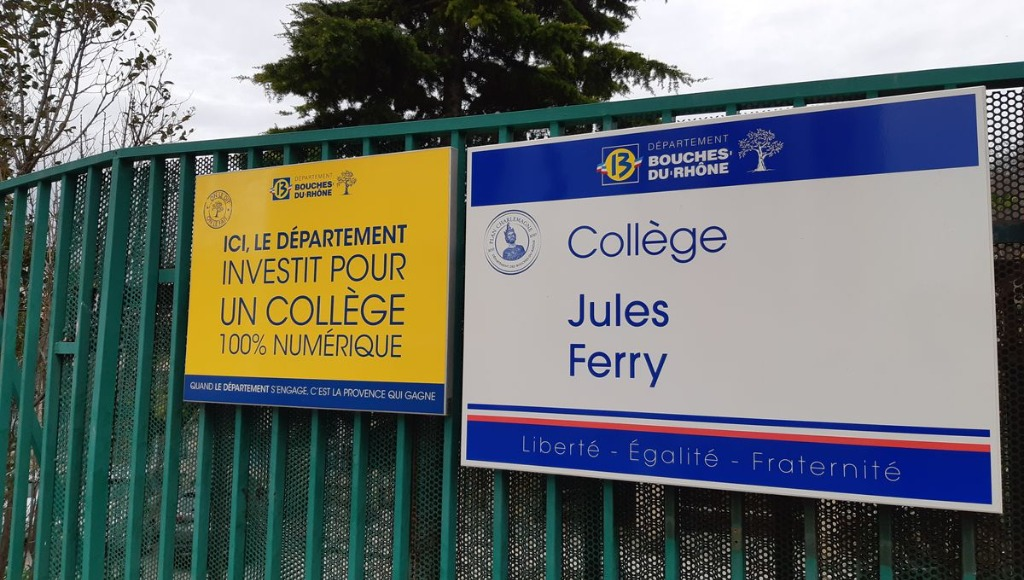
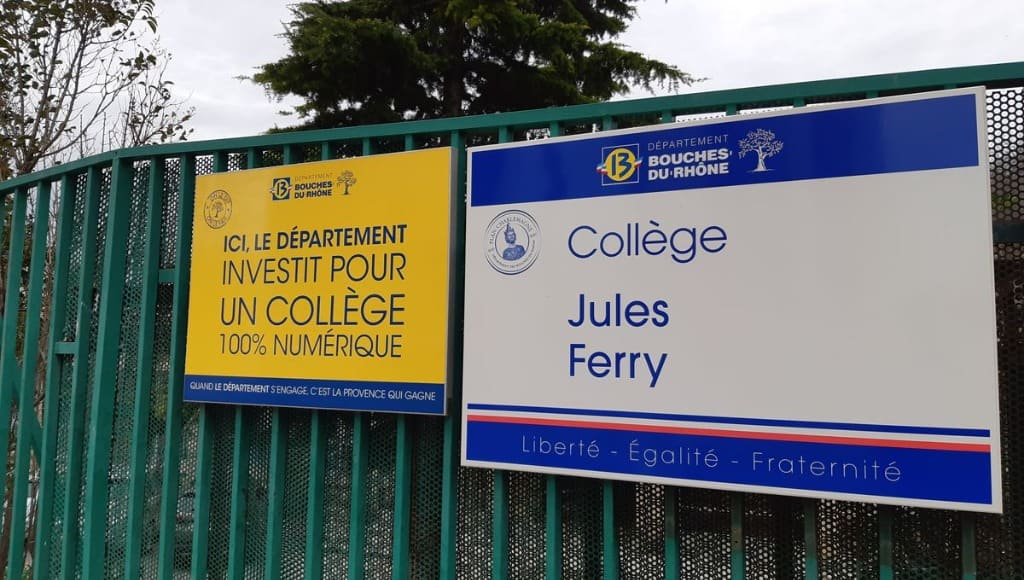
perf(images): conversion WebP, redimensionnement et suppression des assets morts
- Conversion en WebP + redimensionnement à la taille d'affichage réelle
  (hero, logos de projets/partenaires, photos d'événements et d'équipe,
  filigrane) : 15,3 Mo -> 2,9 Mo sur les images réellement utilisées.
- Les images servant de og:image (bannières projets, headerImage
  événements) restent dans leur format d'origine, juste recompressées,
  pour rester compatibles avec les crawlers de réseaux sociaux.
- Suppression de 61 fichiers images jamais référencés dans le code
  (anciennes versions remplacées) : -26,5 Mo.
- Script réutilisable ajouté (scripts/optimize-images.mjs) pour les
  prochains uploads d'images non optimisées.

Corrige le LCP catastrophique (15,8s mobile / 4,2s desktop) relevé par
PageSpeed Insights, principalement causé par des PNG non compressés de
1,5-2 Mo affichés en médaillons de 144px.

Changed region(s): [[0.5938, 0.2483, 0.625, 0.3103], [0.3438, 0.5276, 0.375, 0.5586]]

diff --git a/src/data/projects.ts b/src/data/projects.ts
@@ -33,7 +33,7 @@ export const projects: ProjectItem[] = [
         description: "Projet Cordée de la Réussite phare, ACSE accompagne 60 lycéens marseillais chaque samedi à Kedge BS : ouverture culturelle, développement personnel et préparation aux études supérieures.",
         fullDescription: "À Chacun Son Excellence est un projet de tutorat culturel qui s'adresse à des lycéens volontaires de la seconde à la terminale issus notamment des lycées Saint-Exupéry et Saint-Charles. Les jeunes intègrent le projet en seconde et sont suivis jusqu'à l'obtention de leur baccalauréat. Chaque tuteur accompagne deux tutorés et les encourage à poursuivre leurs études supérieures. Chaque samedi après-midi de 14h à 17h30 sur le campus de Kedge BS, les séances s'articulent autour de 3 axes : l'ouverture culturelle, le développement personnel et l'aide à l'orientation. Des sorties culturelles et un voyage culturel sont organisés chaque année afin de préparer le baccalauréat et d'enrichir la culture générale des élèves.",
         icon: School,
-        image: '/images/projects/acse-logo.png',
+        image: '/images/projects/acse-logo.webp',
         banner: '/images/banners/acse-banner-v2.jpg',
         creationYear: 2006,
         tutorCount: 60,
@@ -54,7 +54,7 @@ export const projects: ProjectItem[] = [
         description: "En étroite collaboration avec la fondation Apprentis d'Auteuil, ce projet dispense des ateliers et présentations d'ouverture culturelle à 35 collégiens au collège Vitagliano.",
         fullDescription: "Apprentis d'Auteuil, en étroite collaboration avec la fondation du même nom, intervient dans le collège Vitagliano (13004). Ce projet de tutorat est destiné à aider 35 collégiens de 6ème et 5ème. Des séances d'ouverture culturelle sont dispensées sur des thèmes d'actualité pour éveiller la curiosité intellectuelle des tuteurés. Les séances sont organisées sous deux formats : ateliers interactifs et présentations stimulantes. Des sorties culturelles et sportives ainsi qu'un voyage culturel sont également organisés chaque année.",
         icon: Users,
-        image: '/images/projects/apprentis-auteuil.png',
+        image: '/images/projects/apprentis-auteuil.webp',
         banner: '/images/banners/apprentis-auteuil-banner-new.jpg',
         creationYear: 2009,
         tutorCount: 35,
@@ -75,7 +75,7 @@ export const projects: ProjectItem[] = [
         description: "Labellisé Cordée de la Réussite, ce projet accompagne 25 élèves de 3ème du collège Arthur Rimbaud (13015) pour élargir leur horizon culturel et renforcer leur esprit critique.",
         fullDescription: "Le projet Arthur Rimbaud accompagne 25 élèves de 3ème du collège du même nom, situé dans le 15ème arrondissement de Marseille. Ce projet œuvre pour aider les élèves à comprendre le monde qui les entoure, au travers de séances dynamiques d'ouverture culturelle et d'échanges d'actualité. Des sorties culturelles régulières ont lieu tout au long de l'année, ainsi qu'un voyage de fin d'année pour élargir leurs horizons.",
         icon: BookOpen,
-        image: '/images/projects/arthur-rimbaud-logo.png',
+        image: '/images/projects/arthur-rimbaud-logo.webp',
         banner: '/images/banners/arthur-rimbaud-banner-new.png',
         creationYear: 2018,
         tutorCount: 25,
@@ -96,7 +96,7 @@ export const projects: ProjectItem[] = [
         description: "Lauréat du Trophée Pro-Act, Izzo accompagne 30 élèves de 4e et 3e au collège Jean-Claude Izzo (13002) : présentations ludiques, ouverture culturelle et voyage de fin d'année.",
         fullDescription: "IZZO intervient auprès de 30 collégiens de 4ème et de 3ème au collège Jean-Claude Izzo (13002). Bien que ces élèves n'aient pas de difficultés scolaires majeures, ils ont une véritable soif d'apprendre et ont besoin d'un accompagnement personnalisé dans leur orientation. Chaque jeudi après-midi de 16h30 à 18h30, une dizaine de tuteurs animent des présentations ludiques et approfondies sur un thème culturel, suivies d'un échange privilégié tuteur-tutoré autour d'un goûter. Le projet organise aussi des sorties sportives et culturelles et un voyage de fin d'année.",
         icon: GraduationCap,
-        image: '/images/projects/izzo-logo.png',
+        image: '/images/projects/izzo-logo.webp',
         banner: '/images/banners/izzo-banner-new.jpg',
         creationYear: 2011,
         tutorCount: 30,
@@ -117,7 +117,7 @@ export const projects: ProjectItem[] = [
         description: "Accueillis directement sur le campus de KEDGE, 20 collégiens motivés de Jules Ferry (13015) développent leurs soft skills, l'aisance à l'oral et la maîtrise de PowerPoint.",
         fullDescription: "Projet labellisé Cordée de la Réussite, Jules Ferry accompagne 20 élèves de 4ème et 3ème du collège Jules Ferry (13015), sélectionnés sur leur motivation. Les séances ont lieu sur le campus de KEDGE BS afin de désacraliser les études supérieures. Les tuteurs leur transmettent les compétences transversales clés (soft skills, conception de présentations PowerPoint percutantes, éloquence et prise de parole en public), indispensables pour réussir le brevet et aborder le lycée avec confiance.",
         icon: PenTool,
-        image: '/images/projects/jules-ferry-logo.png',
+        image: '/images/projects/jules-ferry-logo.webp',
         banner: '/images/banners/jules-ferry-banner-new.jpg',
         creationYear: 2017,
         tutorCount: 20,
@@ -138,7 +138,7 @@ export const projects: ProjectItem[] = [
         description: "En partenariat avec l'association Massabielle, Massa 13 offre chaque mercredi soir 2h d'accompagnement (devoirs + actualités) et un voyage à Hyères pour 20 lycéens du 13e.",
         fullDescription: "En étroite collaboration avec l'association Massabielle, Massa 13 intervient dans la maison de quartier Bernadette du 13ème arrondissement. Chaque tuteur accompagne un lycéen volontaire de la 2nde à la terminale pour l'aider dans ses cours et lui apporter une solide ouverture culturelle. Chaque mercredi soir de 18h à 20h, la séance comprend une heure d'aide aux devoirs méthodologique suivie d'une heure dédiée aux sujets d'actualité et au débat. De nombreuses sorties et un voyage annuel à Hyères sont également organisés.",
         icon: BookOpen,
-        image: '/images/projects/massa-13-logo.png',
+        image: '/images/projects/massa-13-logo.webp',
         banner: '/images/banners/massa-13-banner-new.jpg',
         creationYear: 2008,
         tutorCount: 20,
@@ -159,7 +159,7 @@ export const projects: ProjectItem[] = [
         description: "Labellisé Cordée de la Réussite, Roy d'Espagne prépare 20 collégiens de 3ème au brevet et à l'orientation, avec sorties culturelles mensuelles et voyage à Arles.",
         fullDescription: "Le projet Roy d'Espagne intervient auprès de 20 élèves de 3ème au collège Roy d'Espagne (13009) pour les soutenir dans leur orientation et les préparer aux épreuves du brevet. Chaque jeudi après-midi, les élèves bénéficient de séances alternant aide aux devoirs individualisée et ateliers collectifs d'ouverture culturelle. Dès le mois d'avril, les séances sont entièrement dédiées à la préparation intensive des épreuves écrites et orales du brevet, complétées par des sorties mensuelles et un voyage à Arles.",
         icon: Users,
-        image: '/images/projects/roy-despagne-logo.png',
+        image: '/images/projects/roy-despagne-logo.webp',
         banner: '/images/banners/roy-despagne-banner-new.png',
         creationYear: 2006,
         tutorCount: 20,
@@ -180,7 +180,7 @@ export const projects: ProjectItem[] = [
         description: "4 soirs par semaine au centre social Saint-Gabriel (13014), les tuteurs accompagnent 40 jeunes de la 6e à la Terminale : aide aux devoirs, débats mensuels et voyage annuel.",
         fullDescription: "Le projet Saint Gabriel intervient au cœur du centre social Saint-Gabriel dans le 14ème arrondissement de Marseille. Chaque lundi, mardi, jeudi et vendredi soir, les tuteurs de Kedge BS accompagnent 40 élèves de la 6ème à la Terminale pour surmonter leurs difficultés scolaires et consolider leurs acquis. En plus du soutien scolaire quotidien, une séance hebdomadaire d'ouverture culturelle et un grand débat mensuel stimulent leur esprit critique. Des sorties mensuelles et un voyage complètent le programme.",
         icon: Home,
-        image: '/images/projects/saint-gabriel-logo.png',
+        image: '/images/projects/saint-gabriel-logo.webp',
         banner: '/images/banners/saint-gabriel-new.jpeg',
         creationYear: 2008,
         tutorCount: 40,
@@ -201,7 +201,7 @@ export const projects: ProjectItem[] = [
         description: "Projet historique fondé en 1998 en partenariat avec l'Olympique de Marseille : accompagnement scolaire de 30 jeunes footballeurs à La Commanderie et OM Campus.",
         fullDescription: "Pionnier de l'égalité des chances dès 1998, Sup d'OM intervient au centre de formation de l'Olympique de Marseille pour les sections masculines. Les tuteurs accompagnent les lycéens au centre d'entraînement Robert Louis-Dreyfus (La Commanderie) chaque mardi et jeudi après-midi ainsi que certains samedis matin, et les collégiens au centre OM Campus chaque mercredi. L'objectif est d'assurer un double projet d'excellence : réussir scolairement tout en poursuivant une formation sportive de haut niveau, en préparant sereinement leur avenir professionnel.",
         icon: School,
-        image: '/images/projects/sup-d-om-clean-logo.jpg',
+        image: '/images/projects/sup-d-om-clean-logo.webp',
         banner: '/images/banners/sup-d-om-banner-white.jpg',
         creationYear: 1998,
         tutorCount: 30,

diff --git a/src/data/events.ts b/src/data/events.ts
@@ -23,9 +23,9 @@ export const events: EventItem[] = [
         image: "/images/events/jedc-new.png",
         headerImage: "/images/events/jedc-new.png",
         gallery: [
-            "/images/home/jedc-discours.png",
-            "/images/events/jedc/affiche_2024.png",
-            "/images/events/jedc/programme_2024.png"
+            "/images/home/jedc-discours.webp",
+            "/images/events/jedc/affiche_2024.webp",
+            "/images/events/jedc/programme_2024.webp"
         ],
         externalLinks: [
             { label: "Edition 2015", url: "https://www.facebook.com/events/183620991972582/" },
@@ -59,11 +59,11 @@ export const events: EventItem[] = [
         image: "/images/events/simonu-new.jpg",
         headerImage: "/images/events/simonu-new.jpg",
         gallery: [
-            "/images/events/simonu/simonu-group-argentine.jpg",
-            "/images/events/simonu/simonu-speaker.jpg",
-            "/images/events/simonu/img1.png",
-            "/images/events/simonu/img2.png",
-            "/images/events/simonu/img3.png"
+            "/images/events/simonu/simonu-group-argentine.webp",
+            "/images/events/simonu/simonu-speaker.webp",
+            "/images/events/simonu/img1.webp",
+            "/images/events/simonu/img2.webp",
+            "/images/events/simonu/img3.webp"
         ],
         date: "Avril",
         monthOrder: 4,
@@ -76,12 +76,12 @@ export const events: EventItem[] = [
         title: "Voyages de Fin d'Année",
         description: "Moments d'évasion inoubliables et d'ouverture culturelle : séjours en Espagne, découvertes européennes et grands voyages de fin d'année pour sortir de Marseille et élargir les horizons de nos jeunes.",
         fullDescription: `Les voyages que nous organisons permettent de réduire concrètement les inégalités socio-culturelles en offrant à nos tutorés l'opportunité de sortir de Marseille et de découvrir de nouveaux horizons.\n\nChaque projet bâtit son propre séjour : voyage de fin d'année pour les collégiens d'Izzo, séjour patrimonial à Arles pour Roy d'Espagne, découverte du littoral à Hyères pour Massa 13, ou voyage culturel pour les lycéens d'ACSE.\n\nCes séjours sont le fruit d'un remarquable engagement collectif tout au long de l'année pour leur autofinancement : campagnes de crowdfunding, opération papiers cadeaux (PPK) de Noël, ventes de goûters au foyer associatif et recherche de partenaires entreprises. Ils renforcent durablement la cohésion et ouvrent l'esprit des jeunes sur le monde.`,
-        image: "/images/home/voyage-culturel-1.jpg",
+        image: "/images/home/voyage-culturel-1.webp",
         headerImage: "/images/home/voyage-culturel-2.jpg",
         gallery: [
-            "/images/home/voyage-culturel-1.jpg",
+            "/images/home/voyage-culturel-1.webp",
             "/images/home/voyage-culturel-2.jpg",
-            "/images/home/voyage-culturel-3.jpg"
+            "/images/home/voyage-culturel-3.webp"
         ],
         date: "Mai - Juin",
         monthOrder: 5,
@@ -94,20 +94,20 @@ export const events: EventItem[] = [
         title: "Les Olympiades Phoenix",
         description: "Rassemblement sportif annuel de plus de 300 personnes dans un stade marseillais : 20 équipes mixtes de tuteurs et tutorés s'affrontent dans un esprit d'équipe et de fair-play.",
         fullDescription: `Créées en 2014, les Olympiades constituent le plus grand rassemblement de fin d'année de Phoenix Égalité Des Chances. Cet événement convivial réunit jusqu'à 300 participants (collégiens, lycéens, tuteurs et anciens) dans un grand complexe sportif marseillais.\n\nLes tutorés sont répartis en une vingtaine d'équipes mixtes inter-projets et s'affrontent tout au long de la journée dans une dizaine d'épreuves sportives et ludiques (football, relais, tir à la corde, basket, parcours d'agilité, béret).\n\nEn clôture de l'événement, toutes les équipes sont récompensées selon leur classement, avec un accent tout particulier porté sur le trophée du Fair-play, illustrant les valeurs cardinales de l'association : respect, solidarité, dépassement de soi et fraternité.`,
-        image: "/images/events/olympiades-new.png",
+        image: "/images/events/olympiades-new.webp",
         headerImage: "/images/events/olympiades-banner-new.jpg",
         gallery: [
-            "/images/events/olympiades/olympiades-group-2.jpg",
-            "/images/events/olympiades/olympiades-group-1.png",
-            "/images/events/olympiades/olympiades-group-3.jpg",
-            "/images/events/olympiades/img1.png",
-            "/images/events/olympiades/img2.png"
+            "/images/events/olympiades/olympiades-group-2.webp",
+            "/images/events/olympiades/olympiades-group-1.webp",
+            "/images/events/olympiades/olympiades-group-3.webp",
+            "/images/events/olympiades/img1.webp",
+            "/images/events/olympiades/img2.webp"
         ],
         externalLinks: [
             {
                 label: "Retrouvez l'article sur les olympiades par L'Express",
                 url: "https://www.lexpress.fr/societe/education/les-grandes-ecoles-de-commerce-dans-le-grand-bain-de-l-innovation_1963416.html",
-                logo: "/partners/lexpress.png"
+                logo: "/partners/lexpress.webp"
             }
         ],
         date: "Juin",

diff --git a/src/components/sections/ConcreteActions.tsx b/src/components/sections/ConcreteActions.tsx
@@ -6,7 +6,7 @@ import { MaskingTape } from '../common/HandDrawnElements';
 
 const culturalTripPhotos = [
     {
-        src: "/images/home/voyage-culturel-1.jpg",
+        src: "/images/home/voyage-culturel-1.webp",
         alt: "Voyage culturel Phoenix : groupe de jeunes et tuteurs sur la côte",
         caption: "Voyage culturel avec les lycéens face à la Méditerranée"
     },
@@ -16,7 +16,7 @@ const culturalTripPhotos = [
         caption: "Découverte du patrimoine et grands voyages de fin d'année"
     },
     {
-        src: "/images/home/voyage-culturel-3.jpg",
+        src: "/images/home/voyage-culturel-3.webp",
         alt: "Selfie dynamique des tuteurs et élèves Phoenix",
         caption: "Énergie, sourires et complicité sur le terrain"
     }
@@ -27,14 +27,14 @@ const eventHighlights = [
         id: "simonu",
         title: "SimONU EDC",
         subtitle: "Simulation ONU & Négociation",
-        image: "/images/events/simonu/simonu-speaker.jpg",
+        image: "/images/events/simonu/simonu-speaker.webp",
         objectPosition: "center center"
     },
     {
         id: "jedc",
         title: "La JEDC",
         subtitle: "Concours d'Éloquence",
-        image: "/images/home/jedc-discours.png",
+        image: "/images/home/jedc-discours.webp",
         objectPosition: "left center"
     }
 ];
@@ -86,7 +86,7 @@ export function ConcreteActions() {
                             {/* Photo terrain en salle de tutorat */}
                         <div className="relative h-64 sm:h-72 w-full overflow-hidden bg-slate-900">
                             <img
-                                src="/images/home/tutorat-hebdo-terrain.jpg"
+                                src="/images/home/tutorat-hebdo-terrain.webp"
                                 alt="Séance studieuse de tutorat hebdomadaire et soutien scolaire à Marseille - Phœnix EDC"
                                 className="w-full h-full object-cover group-hover:scale-105 transition-transform duration-500 ease-out will-change-transform"
                                 loading="lazy"

diff --git a/src/components/sections/PartnersCarousel.tsx b/src/components/sections/PartnersCarousel.tsx
@@ -3,14 +3,14 @@ import { ChevronLeft, ChevronRight, ArrowRight } from 'lucide-react';
 import { Link } from 'react-router-dom';
 
 const partnersList = [
-    { name: "Olympique de Marseille", src: "/partners/om.png", alt: "Logo officiel Olympique de Marseille" },
-    { name: "KEDGE Business School", src: "/partners/kedge.png", alt: "Logo institutionnel KEDGE Business School" },
-    { name: "Decathlon", src: "/partners/decathlon.png", alt: "Logo partenaire officiel Decathlon" },
-    { name: "Deloitte", src: "/partners/deloitte.jpg", alt: "Logo partenaire officiel Deloitte" },
-    { name: "Apprentis d'Auteuil", src: "/partners/apprentis-auteuil.png", alt: "Logo partenaire officiel Apprentis d'Auteuil" },
-    { name: "Darty", src: "/partners/darty.png", alt: "Logo partenaire officiel Darty" },
-    { name: "Lydia", src: "/partners/lydia.png", alt: "Logo partenaire digital Lydia" },
-    { name: "L'Express", src: "/partners/lexpress.png", alt: "Logo partenaire presse L'Express" },
+    { name: "Olympique de Marseille", src: "/partners/om.webp", alt: "Logo officiel Olympique de Marseille" },
+    { name: "KEDGE Business School", src: "/partners/kedge.webp", alt: "Logo institutionnel KEDGE Business School" },
+    { name: "Decathlon", src: "/partners/decathlon.webp", alt: "Logo partenaire officiel Decathlon" },
+    { name: "Deloitte", src: "/partners/deloitte.webp", alt: "Logo partenaire officiel Deloitte" },
+    { name: "Apprentis d'Auteuil", src: "/partners/apprentis-auteuil.webp", alt: "Logo partenaire officiel Apprentis d'Auteuil" },
+    { name: "Darty", src: "/partners/darty.webp", alt: "Logo partenaire officiel Darty" },
+    { name: "Lydia", src: "/partners/lydia.webp", alt: "Logo partenaire digital Lydia" },
+    { name: "L'Express", src: "/partners/lexpress.webp", alt: "Logo partenaire presse L'Express" },
 ];
 
 export function PartnersCarousel() {
